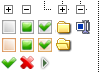
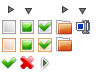
improved theme for jstree and listwidget

diff --git a/public/css/jstree-themes/classic/style.css b/public/css/jstree-themes/classic/style.css
@@ -13,7 +13,7 @@
 .jstree-classic .jstree-leaf > ins { background-position:-36px 0; }
 
 .jstree-classic .jstree-hovered { background:#e7f4f9; border:1px solid #e7f4f9; padding:0 2px 0 1px; }
-.jstree-classic .jstree-clicked { background:navy; border:1px solid navy; padding:0 2px 0 1px; color:white; }
+.jstree-classic .jstree-clicked { background:#63a1d6; border:1px solid #63a1d6; padding:0 2px 0 1px; color:white; }
 .jstree-classic a .jstree-icon { background-position:-56px -19px; }
 .jstree-classic .jstree-open > a .jstree-icon { background-position:-56px -36px; }
 .jstree-classic a.jstree-loading .jstree-icon { background:url("throbber.gif") center center no-repeat !important; }

diff --git a/public/css/main.css b/public/css/main.css
@@ -13,7 +13,7 @@ body {
 .tarkus-button-close { float: right; color: gray; }
 
 .list-view-hovered { background:#e7f4f9; border:0px solid #e7f4f9; }
-.list-view-clicked { background:navy; border:0px solid navy; padding:0 0px 0 0px; color:white; }
+.list-view-clicked { background:#63a1d6; border:0px solid #63a1d6; padding:0 0px 0 0px; color:white; }
 
 .list-view-unclicked-a { color:black; }
 .list-view-clicked-a { color:white; }
